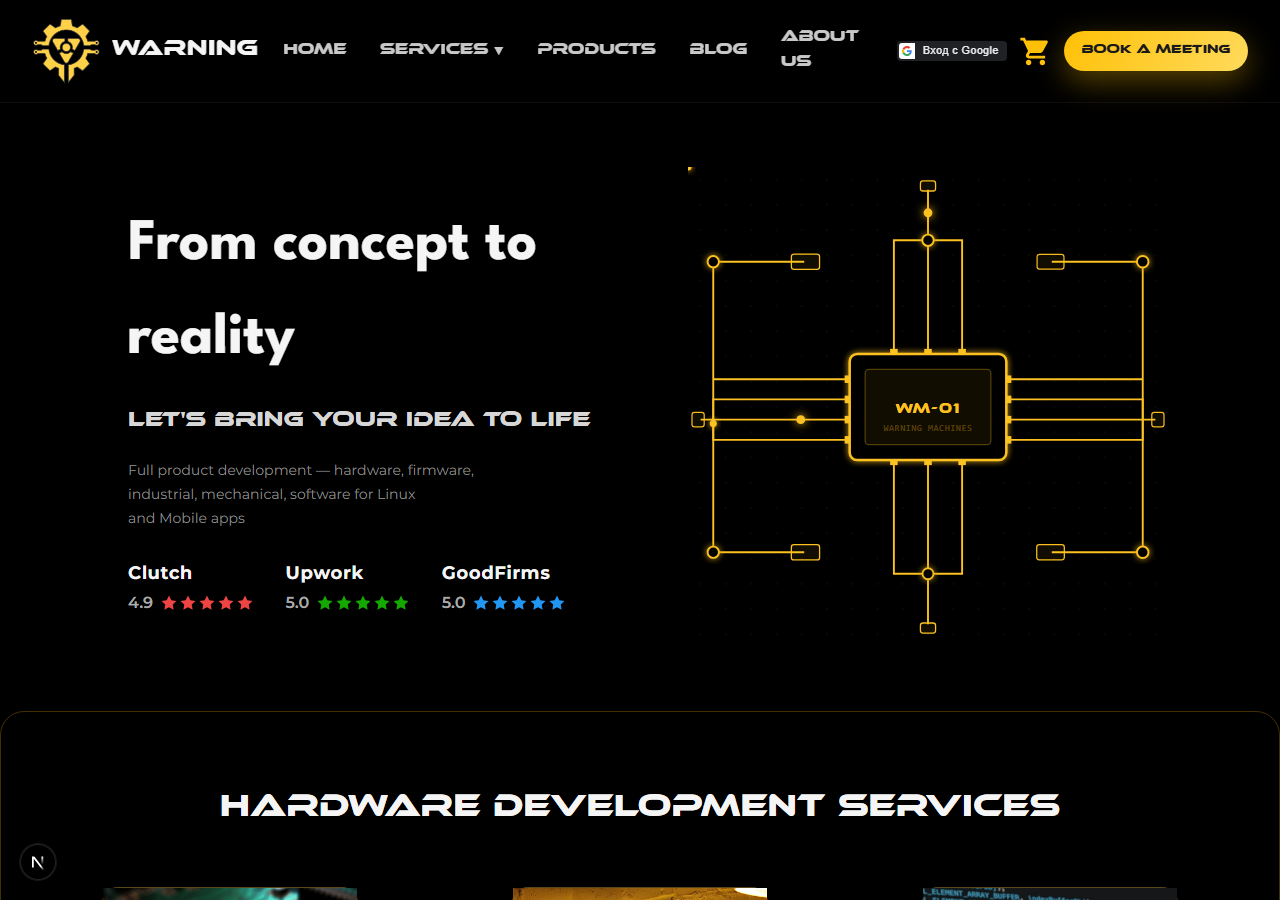
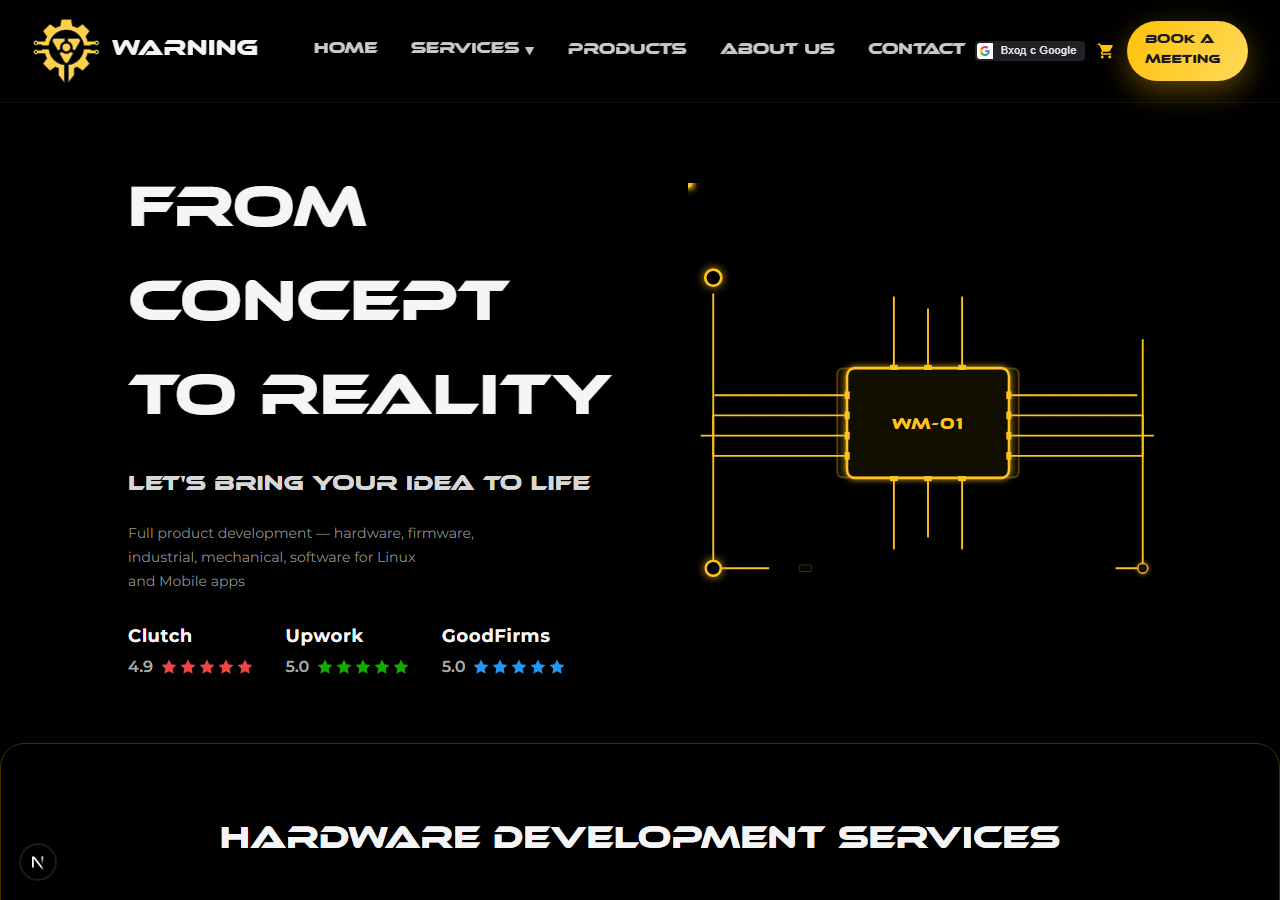
fonts in the menus

diff --git a/screenshot.js b/screenshot.js
@@ -1,19 +1,19 @@
 const { chromium } = require('@playwright/test');
 
 (async () => {
-  const browser = await chromium.launch();
-  const page = await (await browser.newContext()).newPage();
-  await page.setViewportSize({ width: 1440, height: 900 });
+  const browser = await chromium.launch({ args: ['--disable-cache'] });
+  const context = await browser.newContext();
+  const page = await context.newPage();
   await page.addInitScript(() => sessionStorage.setItem('intro_shown', '1'));
-  await page.goto('http://localhost:3000/contact', { waitUntil: 'networkidle' });
-  await page.waitForTimeout(400);
+  await page.setViewportSize({ width: 1280, height: 900 });
 
-  // Nav bar
-  await page.screenshot({ path: 'C:\\GitHub\\warning-machines.com\\screenshot-nav-desktop.png', clip: { x: 0, y: 0, width: 1440, height: 72 } });
+  await page.goto('http://localhost:3000', { waitUntil: 'networkidle' });
+  await page.waitForTimeout(500);
+  await page.screenshot({ path: 'C:/GitHub/warning-machines.com/screenshot-home.png', fullPage: false });
 
-  // Footer
-  const footer = await page.$('footer');
-  await footer.screenshot({ path: 'C:\\GitHub\\warning-machines.com\\screenshot-footer.png' });
+  await page.goto('http://localhost:3000/services/electronics', { waitUntil: 'networkidle' });
+  await page.waitForTimeout(500);
+  await page.screenshot({ path: 'C:/GitHub/warning-machines.com/screenshot-svc-electronics.png', fullPage: false });
 
   await browser.close();
 })();

diff --git a/src/app/globals.css b/src/app/globals.css
@@ -403,11 +403,24 @@ button.nav__link {
   margin: 0 0 0.5rem;
 }
 
+.service-page.blog .section__header-content {
+  top: 50%;
+  transform: translateY(-50%);
+}
+
+.cad-page.blog .section__header-content {
+  top: 20%;
+  transform: none;
+}
+
 .service-page .section__header h1,
 .printing-service-page .section__header h1 {
-  font-size: clamp(2.4rem, 4vw, 3.4rem);
+  font-family: 'Ethnocentric', monospace;
+  font-weight: 400;
+  font-size: clamp(2.8rem, 4.6vw, 3.8rem);
   margin: 0 0 0.5rem;
   text-align: left;
+  line-height: 1.05;
 }
 
 .service-page .article__body,
@@ -1248,6 +1261,19 @@ button.nav__link {
 
   .grid--services {
     grid-template-columns: repeat(2, 1fr) !important;
+  }
+
+  #services .section__header {
+    align-items: center;
+  }
+
+  #services .section__header h1 {
+    text-align: center;
+    padding: 0;
+    width: 100%;
+    box-sizing: border-box;
+    font-size: clamp(1.6rem, 7vw, 2.4rem);
+    overflow-wrap: break-word;
   }
 }
 

diff --git a/src/app/products/products.css b/src/app/products/products.css
@@ -8,29 +8,21 @@
 
 .products-page .hero h1 {
     color: var(--color-primary);
-    font-size: clamp(3rem, 15vw, 12rem);
+    font-size: clamp(2.4rem, 8vw, 5rem);
     text-align: center;
     margin: 0;
-    animation: oscillate 0.5s ease-in-out infinite;
-}
-
-@keyframes oscillate {
-    from {
-        opacity: 0;
-    }
-50% {
-    opacity: 1;
-}
-    to {
-        opacity: 0;
-    }
+    padding: 0 1rem;
 }
 
 .products-page .hero h3 {
     background-color: black;
     color: var(--color-primary);
-    font-size: clamp(1.2rem, 5vw, 4rem);
-    margin: 0;
+    font-size: clamp(1rem, 3vw, 1.4rem);
+    margin: 0.5rem 0 0;
+    font-weight: 400;
+    opacity: 0.7;
+    padding: 0 1rem;
+    text-align: center;
 }
 
 

diff --git a/src/app/services/firmware/page.tsx b/src/app/services/firmware/page.tsx
@@ -161,7 +161,7 @@ export default function FirmwareServicePage() {
     <main className="section blog service-page">
       <div className="section__header">
         <div className="section__header-content">
-          <h1>Firmware development for smart devices</h1>
+          <h1>Software / Firmware development</h1>
           <p className="section__lede">
             Our experienced team of firmware engineers develops sophisticated embedded systems for IoT, robotics and industrial applications.
           </p>

diff --git a/src/app/services/electronics/page.tsx b/src/app/services/electronics/page.tsx
@@ -45,7 +45,7 @@ export default function ElectronicsPage() {
   return <main className="section blog service-page">
     <div className="section__header">
       <div className="section__header-content">
-        <h1>Electronics development for smart devices</h1>
+        <h1>Electronics development</h1>
         <p className="section__lede">
           Create your hardware with our electronics development services. We design PCBs for any application.
         </p>

diff --git a/src/app/blog/blog.css b/src/app/blog/blog.css
@@ -51,9 +51,16 @@
 .blog .section__header-content {
     z-index: 2;
     position: absolute;
-    top: 20%;
-    left: 25vw;
+    top: 50%;
+    left: calc(2rem + max(0px, (100% - 1300px - 4rem) / 2));
+    transform: translateY(-50%);
 }
+
+.cad-page.blog .section__header-content {
+    top: 20%;
+    transform: none;
+}
+
 
 .blog .gradient {
     background: linear-gradient(90deg, rgba(0, 0, 0, 0.96) 0%, rgba(0, 0, 0, 0.576) 39.42%, rgba(0, 0, 0, 0) 100%);

diff --git a/src/components/NavBar.tsx b/src/components/NavBar.tsx
@@ -12,7 +12,7 @@ import { useGoogleAuth } from './auth/useGoogleAuth';
 const services = [
   { label: 'Electronics', href: '/services/electronics' },
   { label: 'Industrial Design', href: '/services/cad/experimental' },
-  { label: 'Software / Firmware development', href: '/services/firmware' },
+  { label: 'Software / Firmware', href: '/services/firmware' },
   { label: 'Manufacturing', href: '/services/3d-printing' },
 ];
 

diff --git a/src/app/services/cad/page.tsx b/src/app/services/cad/page.tsx
@@ -45,7 +45,7 @@ export default function CADPage() {
   const projects = loadPortfolioProjects('cad');
 
   return (
-    <main className="section blog service-page">
+    <main className="section blog service-page cad-page">
       <div className="section__header">
         <div className="section__header-content">
           <h1>Industrial Design</h1>

diff --git a/src/app/products/Hero.tsx b/src/app/products/Hero.tsx
@@ -1,6 +1,6 @@
 export function Hero() {
     return <div className="hero">
-        <h1>Warning!</h1>
-        <h3>Extremely cool products!</h3>
+        <h1>Our Products</h1>
+        <h3>Engineered hardware and systems, built to spec.</h3>
     </div>
 }
